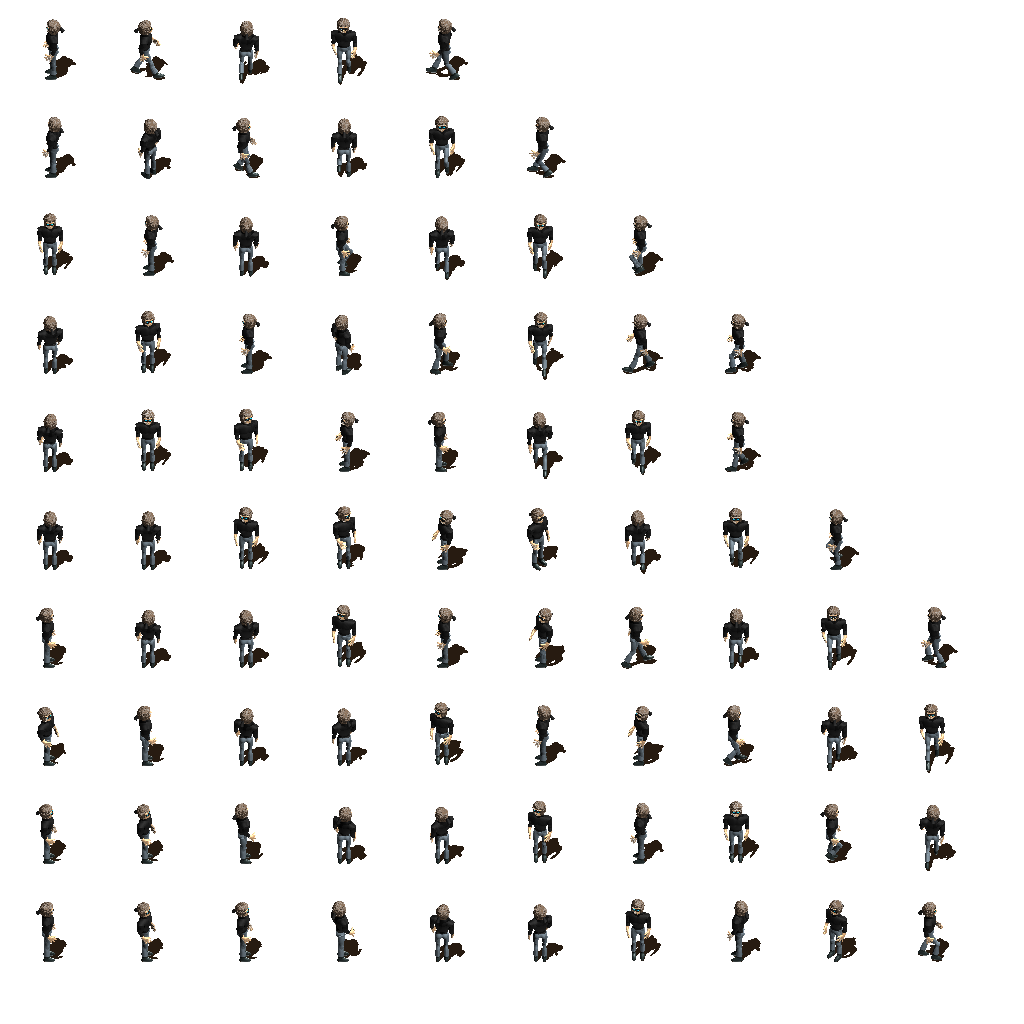
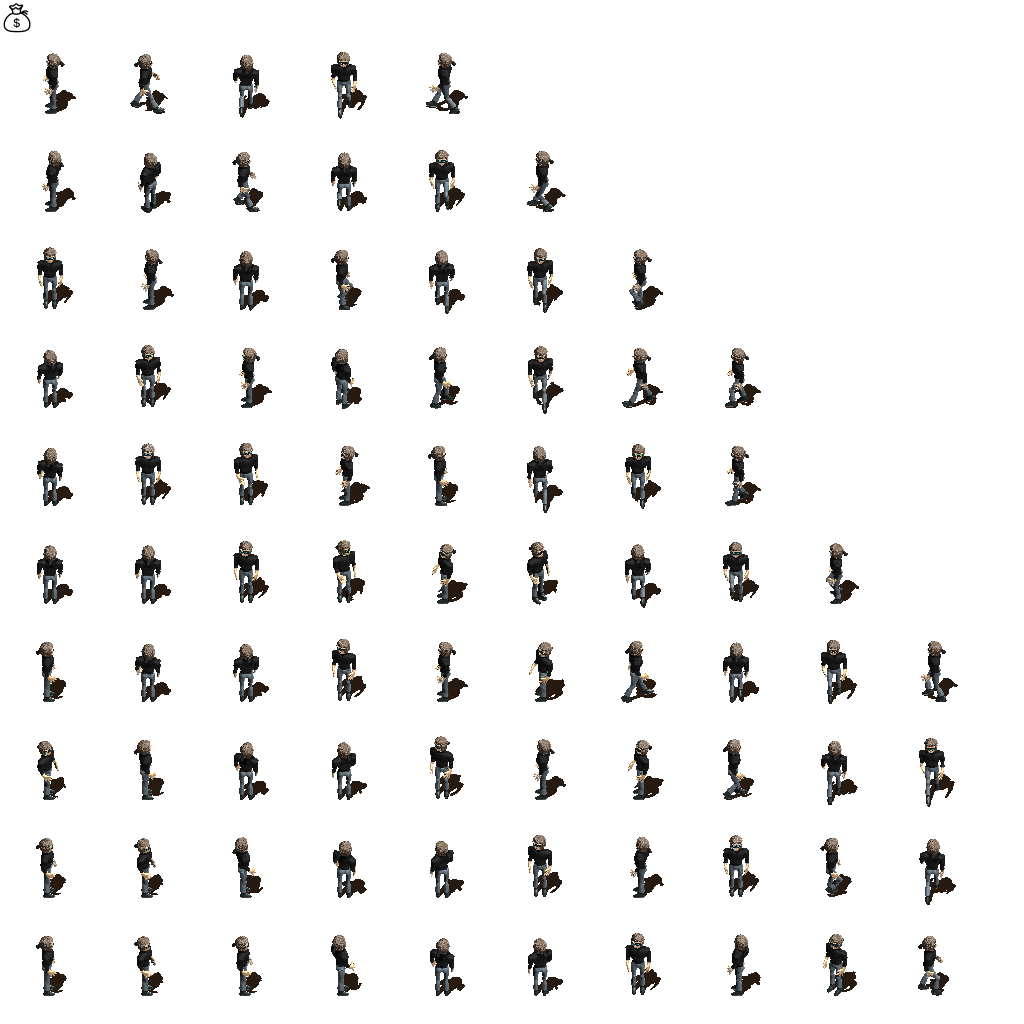
Added selected background and wanted image

diff --git a/CopsAndCrooks/src/com/dat255/project/android/copsandcrooks/actors/MovableActor.java b/CopsAndCrooks/src/com/dat255/project/android/copsandcrooks/actors/MovableActor.java
@@ -12,6 +12,8 @@ import java.beans.PropertyChangeListener;
 import java.util.EnumMap;
 
 import com.badlogic.gdx.graphics.g2d.Animation;
+import com.badlogic.gdx.graphics.g2d.SpriteBatch;
+import com.badlogic.gdx.graphics.g2d.TextureAtlas;
 import com.badlogic.gdx.math.Interpolation;
 import com.badlogic.gdx.scenes.scene2d.actions.TemporalAction;
 import com.badlogic.gdx.scenes.scene2d.ui.Image;
@@ -22,6 +24,7 @@ import com.dat255.project.android.copsandcrooks.domainmodel.IMovable;
 import com.dat255.project.android.copsandcrooks.domainmodel.IWalkableTile;
 import com.dat255.project.android.copsandcrooks.screens.GameCamera;
 import com.dat255.project.android.copsandcrooks.utils.Point;
+import com.dat255.project.android.copsandcrooks.utils.Utilities;
 import com.dat255.project.android.copsandcrooks.utils.Values;
 /**
  * This class represents an abstract pawn in the game Cops&Crooks.
@@ -37,7 +40,10 @@ public class MovableActor extends Image implements PropertyChangeListener {
 	private Animations currentAnimation;
 	private GameCamera camera;
 	private final MovableActor thisActor;
+	private Image selectedBackground;
 	
+	
+
 	public enum Animations{
 		IDLE_ANIM,
 		MOVE_NORTH_ANIM,
@@ -55,8 +61,17 @@ public class MovableActor extends Image implements PropertyChangeListener {
 		currentDrawable = drawable;
 		currentAnimation = Animations.IDLE_ANIM;
 		pawn.addObserver(this);
+		initBackgrounds();
 	}
 	
+	protected void initBackgrounds() {
+		TextureAtlas atlas = Utilities.getAtlas();
+		TextureRegionDrawable selected = new TextureRegionDrawable(atlas.findRegion("game-screen/status/Selected"));
+		selectedBackground = new Image(selected, Scaling.none);
+		selectedBackground.setSize(getWidth(), getHeight());
+		selectedBackground.getColor().a = 0.6f;
+	}
+
 	public void setCamera(GameCamera camera) {
 		this.camera = camera;
 	}
@@ -68,6 +83,18 @@ public class MovableActor extends Image implements PropertyChangeListener {
 		currentDrawable.setRegion(animations.get(currentAnimation).getKeyFrame(animTimer, true));
 		super.act(delta);
 	}
+	
+	@Override
+	public void draw(SpriteBatch batch, float parentAlpha) {
+		if (pawn.isActivePawn()) {
+			selectedBackground.setPosition(getX(), getY());
+			selectedBackground.draw(batch, parentAlpha);
+		} 
+
+			
+		super.draw(batch, parentAlpha);
+	}
+
 
 	@Override
 	public void propertyChange(final PropertyChangeEvent evt) {
@@ -94,7 +121,7 @@ public class MovableActor extends Image implements PropertyChangeListener {
 					float x = currentPos.x * Values.TILE_WIDTH - ((this.getWidth() - Values.TILE_WIDTH)/2);
 					float y = currentPos.y * Values.TILE_HEIGTH - ((this.getHeight() - Values.TILE_HEIGTH)/2);
 					this.addAction(new CameraMove(0, x, y));
-				}
+				} 
 			}
 		}
 

diff --git a/CopsAndCrooks/src/com/dat255/project/android/copsandcrooks/actors/CrookActor.java b/CopsAndCrooks/src/com/dat255/project/android/copsandcrooks/actors/CrookActor.java
@@ -1,0 +1,42 @@
+package com.dat255.project.android.copsandcrooks.actors;
+
+import java.util.EnumMap;
+
+import com.badlogic.gdx.graphics.g2d.Animation;
+import com.badlogic.gdx.graphics.g2d.SpriteBatch;
+import com.badlogic.gdx.graphics.g2d.TextureAtlas;
+import com.badlogic.gdx.scenes.scene2d.ui.Image;
+import com.badlogic.gdx.scenes.scene2d.utils.TextureRegionDrawable;
+import com.badlogic.gdx.utils.Scaling;
+import com.dat255.project.android.copsandcrooks.domainmodel.Crook;
+import com.dat255.project.android.copsandcrooks.utils.Utilities;
+import com.dat255.project.android.copsandcrooks.utils.Values;
+
+public class CrookActor extends MovableActor {
+	private final Crook crook;
+	private Image wanted;
+
+	public CrookActor(TextureRegionDrawable drawable, Scaling scaling,
+			Crook pawn, EnumMap<Animations, Animation> animations) {
+		super(drawable, scaling, pawn, animations);
+		crook = pawn;
+	}
+
+	@Override
+	public void draw(SpriteBatch batch, float parentAlpha) {
+		if (crook.isWanted()) {
+			wanted.setPosition(getX()+ Values.TILE_WIDTH/2+4, getY()+Values.TILE_HEIGTH + wanted.getHeight()/2+5);
+			wanted.draw(batch, parentAlpha);
+		}
+
+		super.draw(batch, parentAlpha);
+	}
+
+	@Override
+	protected void initBackgrounds() {
+		super.initBackgrounds();
+		TextureAtlas atlas = Utilities.getAtlas();
+		TextureRegionDrawable selected = new TextureRegionDrawable(atlas.findRegion("game-screen/crook/bounty"));
+		wanted = new Image(selected, Scaling.none);
+	}	
+}

diff --git a/CopsAndCrooks/src/com/dat255/project/android/copsandcrooks/map/GameFactory.java b/CopsAndCrooks/src/com/dat255/project/android/copsandcrooks/map/GameFactory.java
@@ -21,10 +21,10 @@ import com.badlogic.gdx.utils.Scaling;
 import com.dat255.project.android.copsandcrooks.CopsAndCrooks;
 import com.dat255.project.android.copsandcrooks.actors.CopActor;
 import com.dat255.project.android.copsandcrooks.actors.CopCarActor;
+import com.dat255.project.android.copsandcrooks.actors.CrookActor;
 import com.dat255.project.android.copsandcrooks.actors.DiceActor;
 import com.dat255.project.android.copsandcrooks.actors.HideoutActor;
 import com.dat255.project.android.copsandcrooks.actors.MetroLineActor;
-import com.dat255.project.android.copsandcrooks.actors.MovableActor;
 import com.dat255.project.android.copsandcrooks.actors.MovableActor.Animations;
 import com.dat255.project.android.copsandcrooks.actors.PathActor;
 import com.dat255.project.android.copsandcrooks.domainmodel.CopCar;
@@ -138,7 +138,7 @@ public class GameFactory {
 					EnumMap<Animations, Animation> pawnAnimations = getCrookAnimations();
 					// Specify the first drawable frame
 					TextureRegionDrawable drawable = new TextureRegionDrawable(pawnAnimations.get(Animations.IDLE_ANIM).getKeyFrame(0));
-					actors.add(new MovableActor(drawable, Scaling.none, pawn, pawnAnimations));
+					actors.add(new CrookActor(drawable, Scaling.none, (Crook) pawn, pawnAnimations));
 				}else if(pawn instanceof CopCar){
 					// Get animations
 					EnumMap<Animations, Animation> pawnAnimations = getCopCarAnimations();

diff --git a/CopsAndCrooks/src/com/dat255/project/android/copsandcrooks/domainmodel/HideoutTile.java b/CopsAndCrooks/src/com/dat255/project/android/copsandcrooks/domainmodel/HideoutTile.java
@@ -41,11 +41,9 @@ public class HideoutTile extends AbstractWalkableTile implements IInteractiveTil
 	@Override
 	public void interact(IMovable target) {
 		//this needs to be listened to by something
-		if (target instanceof Crook) {
-			pcs.firePropertyChange(PROPERTY_HIDEOUT_INTERACT, null, target);
-		}
+		pcs.firePropertyChange(PROPERTY_HIDEOUT_INTERACT, null, target);
 	}
-	
+
 	/**
 	 * Deposit an amount of a crook's cash in the hideout.
 	 * @param crook the crook
@@ -53,16 +51,12 @@ public class HideoutTile extends AbstractWalkableTile implements IInteractiveTil
 	 */
 	public void depositCash(Crook crook){
 		//Adds the crook to the list of crooks that have stored cash
-		if(storedCash.containsKey(crook)){
-			storedCash.put(crook, 0);
-		}
+		
 		storedCash.put(crook, crook.getWallet().getCash() + getStoredCashAmount(crook));
 		crook.getWallet().setCash(0);
+		crook.setWanted(false);
 		pcs.firePropertyChange(PROPERTY_HIDEOUT_MONEY, null, crook);
 		
-		if(crook.getWallet().getCash() == 0){
-			crook.setWanted(false);
-		}
 		mediator.playerTurnDone(2f);
 	}
 	
@@ -119,7 +113,7 @@ public class HideoutTile extends AbstractWalkableTile implements IInteractiveTil
 	 * Cancels the crooks interaction with the hideout.
 	 * @param crook the crook
 	 */
-	public void cancelInteraction(Crook crook){
+	public void cancelInteraction(){
 		mediator.playerTurnDone(2f);
 	}
 	

diff --git a/CopsAndCrooks/src/com/dat255/project/android/copsandcrooks/domainmodel/Crook.java b/CopsAndCrooks/src/com/dat255/project/android/copsandcrooks/domainmodel/Crook.java
@@ -13,9 +13,12 @@ public class Crook extends AbstractWalkingPawn {
 	private boolean attemptingGetAway, isWanted;
 	private int turnsInPrison, timesArrested;
 	
+	public static final String PROPERTY_IS_WANTED = "IsWanted";
+	
 	public Crook(AbstractWalkableTile startTile, IMediator mediator, int id) {
 		super(startTile, Role.Crook, PawnType.Crook, mediator, 1, id);
 		wallet = new Wallet();
+		wallet.setCash(5000);
 	}
 	
 	/**
@@ -32,6 +35,7 @@ public class Crook extends AbstractWalkingPawn {
 	 */
 	void setWanted(boolean wanted) {
 		this.isWanted = wanted;
+		pcs.firePropertyChange(PROPERTY_IS_WANTED, null, isWanted);
 	}
 	
 	/**

diff --git a/CopsAndCrooks/src/com/dat255/project/android/copsandcrooks/screens/HideoutOptionsTable.java b/CopsAndCrooks/src/com/dat255/project/android/copsandcrooks/screens/HideoutOptionsTable.java
@@ -111,15 +111,13 @@ public class HideoutOptionsTable extends Table implements PropertyChangeListener
 		@Override
 		public void touchUp(InputEvent event, float x, float y,
 				int pointer, int button) {
-			if (visitor != null) {
-				hideout.cancelInteraction(visitor);
-				thisTable.remove();
-			}
-			
+			hideout.cancelInteraction();
+			thisTable.remove();
+
 			super.touchDown(event, x, y, pointer, button);
 		}
 	};
-	
+
 	@Override
 	public void propertyChange(PropertyChangeEvent evt) {
 		if (evt.getSource() == hideout) {

diff --git a/CopsAndCrooks/src/com/dat255/project/android/copsandcrooks/screens/HideoutStatusTable.java b/CopsAndCrooks/src/com/dat255/project/android/copsandcrooks/screens/HideoutStatusTable.java
@@ -48,7 +48,7 @@ public class HideoutStatusTable extends Table implements PropertyChangeListener 
 					nameLabel.setColor(Color.BLACK);
 					add(nameLabel).expandX().fillX().uniform().padRight(15);
 				
-					Label moneyLabel = new Label(String.format("%-6d%n", 0), Utilities.getSkin());
+					Label moneyLabel = new Label(String.format("%-6d%n", hideout.getStoredCashAmount(crook)), Utilities.getSkin());
 					moneyLabel.setFontScale(0.6f);
 					moneyLabel.setAlignment(Align.left);
 					moneyLabel.setColor(Color.BLACK);
